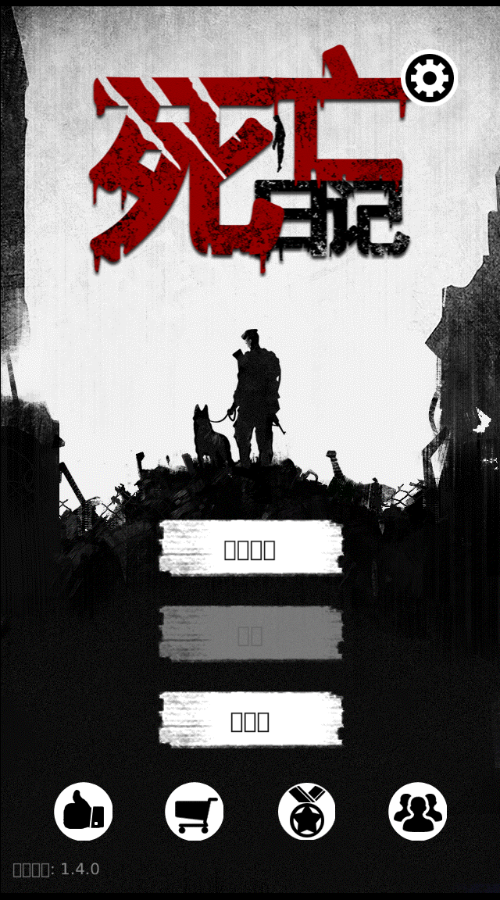
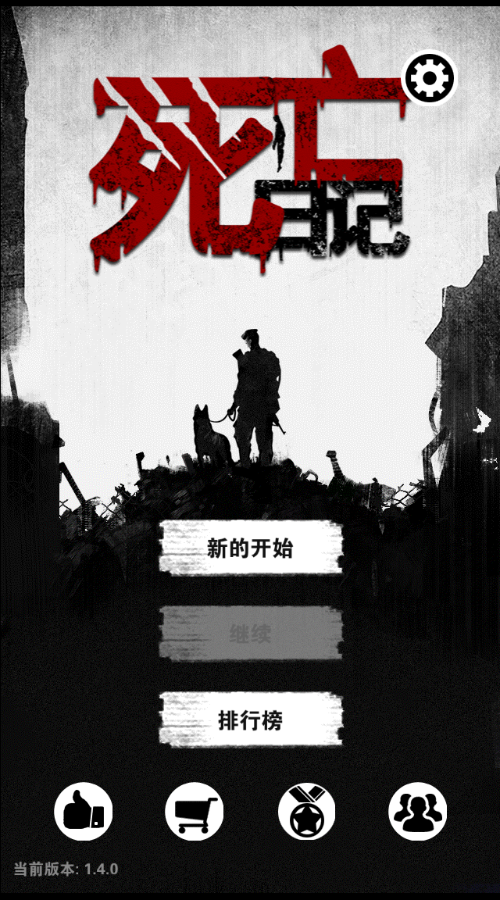
fix: load bundled CJK font so menu text is not tofu
Prefer FZDaHei (public/fonts/fzdh.ttf) over missing system faces on
Linux/WSL, warm it in Boot before Preloader, and refresh the README cover.

Changed region(s): [[0.03, 0.9333, 0.24, 0.9956], [0.42, 0.7778, 0.57, 0.84], [0.42, 0.5911, 0.6, 0.6222]]

diff --git a/src/game/ui/uiFont.ts b/src/game/ui/uiFont.ts
@@ -1,28 +1,24 @@
 /**
  * Port of Buried-City uiUtil.fontFamily / fontSize.
  *
- * Original web build (localhost:4444) sets fontFamily.normal to "" when
- * `cc.sys.isNative` is false, so LabelTTF uses the browser system Chinese
- * UI face (PingFang SC on macOS, Microsoft YaHei on Windows).
+ * Web Cocos used empty LabelTTF family → system CJK UI face.
+ * On Linux/WSL those faces (PingFang / YaHei / Heiti) are often missing,
+ * so Phaser Text renders CJK as tofu boxes (□).
  *
- * Native packs use TTF family "FZDaHei-B02S" (res/font/fzdh.ttf). That face
- * is still bundled under public/fonts for optional native-look mode, but the
- * default Phaser UI stack matches the web original so side-by-side with
- * Cocos web stays consistent.
- *
- * Size tiers match uiUtil.fontSize (design 640×1136).
- * createSpriteBtn always does `fontSize -= 4` after picking the tier.
+ * Default stack leads with the bundled native pack face
+ * `FZDaHei-B02S` (public/fonts/fzdh.ttf via style.css @font-face),
+ * then system CJK fallbacks.
  */
 
-/** CSS / Phaser font-family matching web original (empty → system CJK UI). */
-export const UI_FONT_FAMILY =
-    '"PingFang SC", "Hiragino Sans GB", "Microsoft YaHei", "Heiti SC", sans-serif';
+/** Bundled face from public/fonts/fzdh.ttf (@font-face in style.css). */
+export const UI_FONT_FACE_NAME = 'FZDaHei-B02S';
 
 /**
- * Optional native pack face (public/fonts/fzdh.ttf via @font-face).
- * Not used by default UI; kept for native-parity experiments.
+ * CSS / Phaser font-family.
+ * Prefer bundled TTF so Linux/WSL/headless Chromium still draw CJK.
  */
-export const UI_FONT_FACE_NAME = 'FZDaHei-B02S';
+export const UI_FONT_FAMILY =
+    `"${UI_FONT_FACE_NAME}", "PingFang SC", "Hiragino Sans GB", "Microsoft YaHei", "Noto Sans CJK SC", "Source Han Sans SC", "WenQuanYi Micro Hei", sans-serif`;
 
 export const UI_FONT_SIZE = {
     /** uiUtil.fontSize.COMMON_1 */
@@ -43,7 +39,6 @@ export const UI_TEXT_RESOLUTION =
     typeof window !== 'undefined'
         ? Math.min(window.devicePixelRatio || 1, 2)
         : 1;
-
 
 /**
  * Effective label size after uiUtil.createSpriteBtn's `fontSize -= 4`.
@@ -102,8 +97,8 @@ export function uiWordWrap (width: number): {
 }
 
 /**
- * System UI faces need no async load. Kept so Boot can still await a stable
- * first frame before Preloader draws text.
+ * Ensure the bundled CJK face is loaded before Preloader draws text.
+ * Falls back after timeout so Boot never hangs if the TTF fails.
  */
 export async function ensureUiFontLoaded (timeoutMs = 4000): Promise<boolean>
 {
@@ -114,22 +109,21 @@ export async function ensureUiFontLoaded (timeoutMs = 4000): Promise<boolean>
 
     try
     {
-        // Warm the first family in the stack (PingFang SC on Apple).
-        const primaryFace = 'PingFang SC';
+        const face = UI_FONT_FACE_NAME;
         const loads = [20, 24, 28, 32].map((px) =>
-            document.fonts.load(`${px}px "${primaryFace}"`),
+            document.fonts.load(`${px}px "${face}"`),
         );
         await Promise.race([
             Promise.all(loads).then(() => true),
             new Promise<boolean>((resolve) =>
             {
-                window.setTimeout(() => resolve(true), timeoutMs);
+                window.setTimeout(() => resolve(document.fonts.check(`24px "${face}"`)), timeoutMs);
             }),
         ]);
-        return true;
+        return document.fonts.check(`24px "${face}"`);
     }
     catch
     {
-        return true;
+        return false;
     }
 }

diff --git a/public/style.css b/public/style.css
@@ -1,4 +1,12 @@
-/* Web original (Cocos) uses empty LabelTTF font → system CJK UI face. */
+/* Prefer bundled CJK face so Linux/WSL still renders Chinese (not tofu □). */
+@font-face {
+    font-family: 'FZDaHei-B02S';
+    src: url('/fonts/fzdh.ttf') format('truetype');
+    font-weight: normal;
+    font-style: normal;
+    font-display: swap;
+}
+
 html,
 body {
     margin: 0;
@@ -8,21 +16,12 @@ body {
     color: rgba(255, 255, 255, 0.87);
     /* Match original index.html pure black letterbox */
     background-color: #000000;
-    font-family: "PingFang SC", "Hiragino Sans GB", "Microsoft YaHei", "Heiti SC", sans-serif;
+    font-family: "FZDaHei-B02S", "PingFang SC", "Hiragino Sans GB", "Microsoft YaHei", "Noto Sans CJK SC", "Source Han Sans SC", "WenQuanYi Micro Hei", sans-serif;
     -webkit-font-smoothing: antialiased;
     -moz-osx-font-smoothing: grayscale;
     overflow: hidden;
     user-select: none;
     -webkit-user-select: none;
-}
-
-/* Optional native pack face (res/font/fzdh.ttf). Not the default UI stack. */
-@font-face {
-    font-family: 'FZDaHei-B02S';
-    src: url('/fonts/fzdh.ttf') format('truetype');
-    font-weight: normal;
-    font-style: normal;
-    font-display: swap;
 }
 
 /*

diff --git a/src/game/scenes/Boot.ts b/src/game/scenes/Boot.ts
@@ -15,7 +15,8 @@ export class Boot extends Scene
 
     create ()
     {
-        // Warm system CJK UI face (web original uses empty LabelTTF family).
+        // Must load FZDaHei (public/fonts/fzdh.ttf) before any Phaser Text,
+        // or CJK becomes tofu on Linux/WSL without system Chinese fonts.
         void ensureUiFontLoaded().finally(() =>
         {
             this.scene.start('Preloader');
